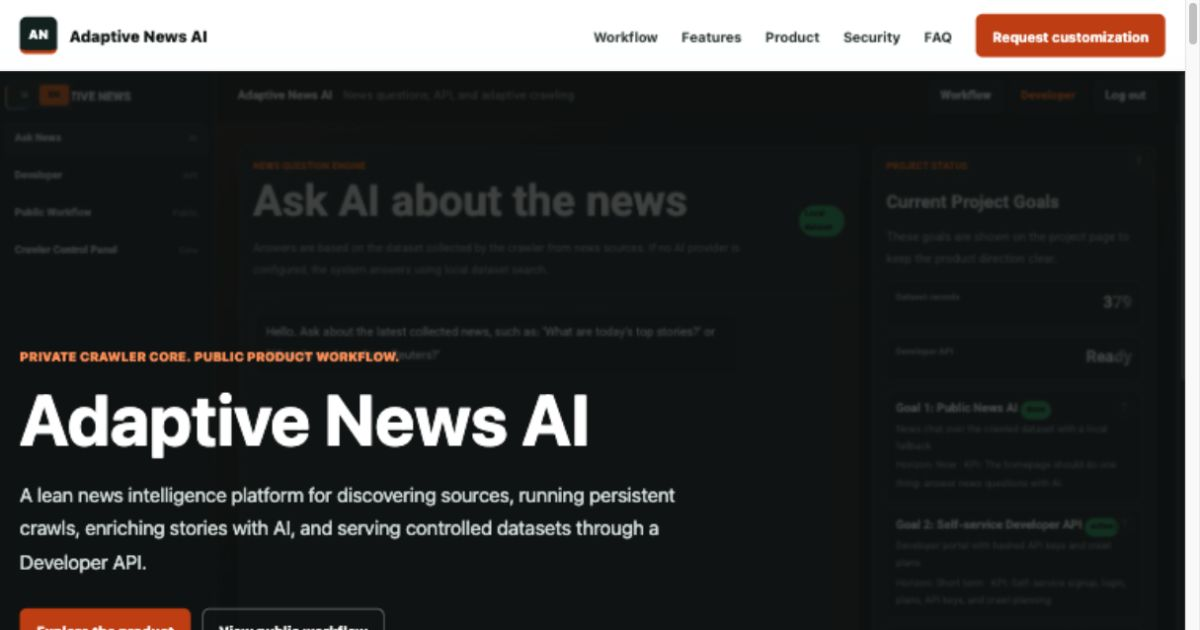
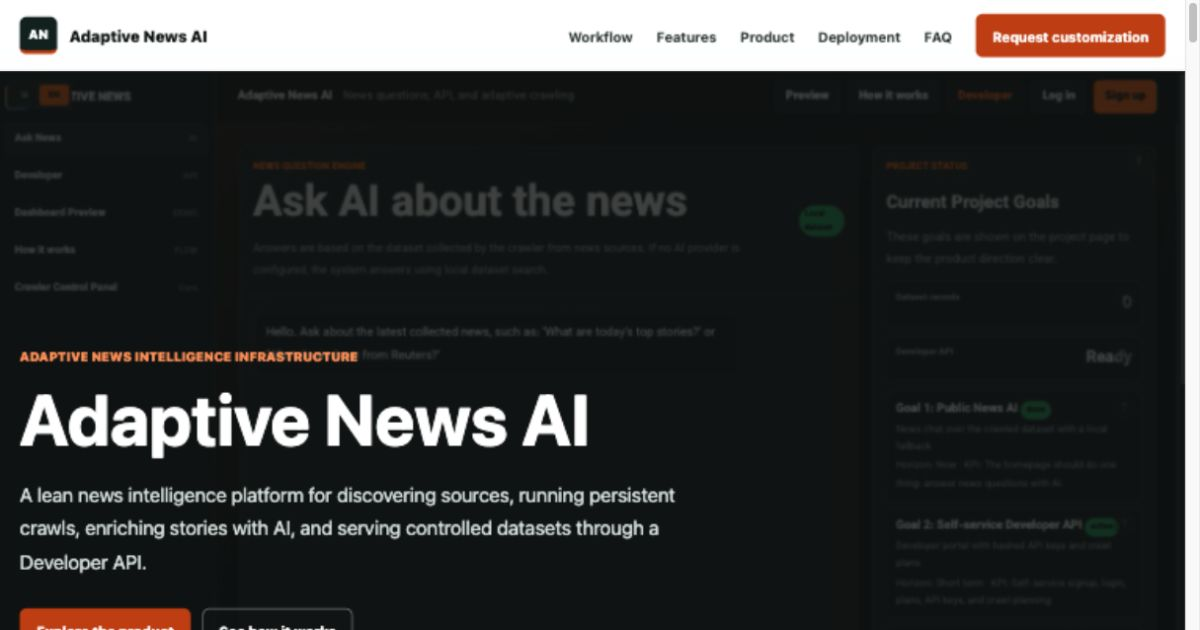
Focus public site on the product

diff --git a/index.html b/index.html
@@ -3,9 +3,9 @@
 <head>
   <meta charset="utf-8">
   <meta name="viewport" content="width=device-width, initial-scale=1, viewport-fit=cover">
-  <title>Adaptive News AI | Private Crawler and News API</title>
-  <meta name="description" content="Private news intelligence infrastructure for adaptive crawling, AI enrichment, managed crawl IPs, persistent scheduling, and a scoped Developer API.">
-  <meta name="keywords" content="Adaptive News AI, adaptive news crawler, news intelligence API, AI news extraction, crawl scheduler, proxy rotation, publisher taxonomy, private news platform">
+  <title>Adaptive News AI | Adaptive Crawler and News API</title>
+  <meta name="description" content="News intelligence infrastructure for adaptive crawling, AI enrichment, managed crawl IPs, persistent scheduling, and a scoped Developer API.">
+  <meta name="keywords" content="Adaptive News AI, adaptive news crawler, news intelligence API, AI news extraction, crawl scheduler, proxy rotation, publisher taxonomy, news platform">
   <meta name="author" content="Adaptive News AI">
   <meta name="robots" content="index, follow, max-image-preview:large, max-snippet:-1, max-video-preview:-1">
   <meta name="theme-color" content="#111817">
@@ -14,8 +14,8 @@
   <link rel="canonical" href="https://digimasoud.github.io/adaptive-news-workflow/">
   <link rel="sitemap" type="application/xml" href="https://digimasoud.github.io/adaptive-news-workflow/sitemap.xml">
   <link rel="preload" as="image" href="assets/homepage.png" fetchpriority="high">
-  <meta property="og:title" content="Adaptive News AI - Private News Intelligence Infrastructure">
-  <meta property="og:description" content="Discover, crawl, enrich, schedule, and serve news data through one lean private core and a scoped Developer API.">
+  <meta property="og:title" content="Adaptive News AI - News Intelligence Infrastructure">
+  <meta property="og:description" content="Discover, crawl, enrich, schedule, and serve news data through one lean platform and a scoped Developer API.">
   <meta property="og:type" content="website">
   <meta property="og:site_name" content="Adaptive News AI">
   <meta property="og:locale" content="en_US">
@@ -25,12 +25,12 @@
   <meta property="og:image:type" content="image/png">
   <meta property="og:image:width" content="1200">
   <meta property="og:image:height" content="630">
-  <meta property="og:image:alt" content="Adaptive News AI private crawler and Developer API product page">
+  <meta property="og:image:alt" content="Adaptive News AI crawler and Developer API product page">
   <meta name="twitter:card" content="summary_large_image">
-  <meta name="twitter:title" content="Adaptive News AI - Private News Intelligence Infrastructure">
+  <meta name="twitter:title" content="Adaptive News AI - News Intelligence Infrastructure">
   <meta name="twitter:description" content="Adaptive crawling, managed IPs, AI-enriched news data, persistent schedules, and a metered Developer API.">
   <meta name="twitter:image" content="https://digimasoud.github.io/adaptive-news-workflow/assets/og-image.png">
-  <meta name="twitter:image:alt" content="Adaptive News AI private crawler and Developer API product page">
+  <meta name="twitter:image:alt" content="Adaptive News AI crawler and Developer API product page">
   <script type="application/ld+json">
     {
       "@context": "https://schema.org",
@@ -40,15 +40,15 @@
           "@id": "https://digimasoud.github.io/adaptive-news-workflow/#website",
           "url": "https://digimasoud.github.io/adaptive-news-workflow/",
           "name": "Adaptive News AI",
-          "description": "Private news intelligence infrastructure for adaptive crawling, AI enrichment, and controlled API delivery.",
+          "description": "News intelligence infrastructure for adaptive crawling, AI enrichment, and controlled API delivery.",
           "inLanguage": "en"
         },
         {
           "@type": "WebPage",
           "@id": "https://digimasoud.github.io/adaptive-news-workflow/#webpage",
           "url": "https://digimasoud.github.io/adaptive-news-workflow/",
-          "name": "Adaptive News AI | Private Crawler and News API",
-          "description": "Private news intelligence infrastructure for adaptive crawling, AI enrichment, managed crawl IPs, persistent scheduling, and a scoped Developer API.",
+          "name": "Adaptive News AI | Adaptive Crawler and News API",
+          "description": "News intelligence infrastructure for adaptive crawling, AI enrichment, managed crawl IPs, persistent scheduling, and a scoped Developer API.",
           "isPartOf": {"@id": "https://digimasoud.github.io/adaptive-news-workflow/#website"},
           "primaryImageOfPage": {"@id": "https://digimasoud.github.io/adaptive-news-workflow/#primaryimage"},
           "mainEntity": {"@id": "https://digimasoud.github.io/adaptive-news-workflow/#software"},
@@ -62,7 +62,7 @@
           "contentUrl": "https://digimasoud.github.io/adaptive-news-workflow/assets/og-image.png",
           "width": 1200,
           "height": 630,
-          "caption": "Adaptive News AI private crawler and Developer API product page"
+          "caption": "Adaptive News AI crawler and Developer API product page"
         },
         {
           "@type": "SoftwareApplication",
@@ -71,7 +71,7 @@
           "alternateName": "Adaptive News Crawler",
           "applicationCategory": "DeveloperApplication",
           "operatingSystem": "Web, Linux, Docker",
-          "description": "Private news intelligence infrastructure for adaptive crawling, AI enrichment, persistent scheduling, and metered API delivery.",
+          "description": "News intelligence infrastructure for adaptive crawling, AI enrichment, persistent scheduling, and metered API delivery.",
           "url": "https://digimasoud.github.io/adaptive-news-workflow/",
           "mainEntityOfPage": {"@id": "https://digimasoud.github.io/adaptive-news-workflow/#webpage"},
           "image": {"@id": "https://digimasoud.github.io/adaptive-news-workflow/#primaryimage"},
@@ -82,12 +82,12 @@
             "Persistent hourly, daily, and weekly scheduling",
             "Managed proxy and crawl IP rotation",
             "Host-scoped authorized premium source sessions",
-            "Customer self-hosting with private versioned updates",
+            "Customer self-hosting with versioned updates",
             "Email and password read-only dashboard preview",
             "Resilient title and publisher taxonomy extraction",
             "AI summaries, entities, and topical tags",
             "Scoped API keys, quotas, and usage metering",
-            "Private JSONL and CSV news datasets",
+            "Local JSONL and CSV news datasets",
             "English and Persian product interfaces",
             "Mobile-first responsive public product experience",
             "Operator reports, logs, feedback, and health monitoring"
@@ -100,7 +100,7 @@
             {
               "@type": "Question",
               "name": "What is Adaptive News AI?",
-              "acceptedAnswer": {"@type": "Answer", "text": "Adaptive News AI is private news intelligence infrastructure that discovers sources, crawls articles, enriches records, schedules recurring jobs, and serves controlled datasets through a Developer API."}
+              "acceptedAnswer": {"@type": "Answer", "text": "Adaptive News AI is news intelligence infrastructure that discovers sources, crawls articles, enriches records, schedules recurring jobs, and serves controlled datasets through a Developer API."}
             },
             {
               "@type": "Question",
@@ -115,11 +115,11 @@
             {
               "@type": "Question",
               "name": "What does the Developer API expose?",
-              "acceptedAnswer": {"@type": "Answer", "text": "Scoped API keys provide public-safe article records, search and source taxonomy filters, usage reporting, and crawl-plan operations. Raw HTML and private operator state are excluded."}
+              "acceptedAnswer": {"@type": "Answer", "text": "Scoped API keys provide controlled article records, search and source taxonomy filters, usage reporting, and crawl-plan operations. Raw HTML and operator state are excluded."}
             },
             {
               "@type": "Question",
-              "name": "Can Adaptive News AI run on one private server?",
+              "name": "Can Adaptive News AI run on one customer server?",
               "acceptedAnswer": {"@type": "Answer", "text": "Yes. The platform is designed for a lean Docker-based single-server deployment with persistent local state and optional integration with a separate ingestion service."}
             },
             {
@@ -127,11 +127,7 @@
               "name": "Can it crawl sources that require an authorized account?",
               "acceptedAnswer": {"@type": "Answer", "text": "Yes. Operators can attach host-scoped Basic, Bearer, custom-header, or existing session-cookie profiles to targets they are authorized to access. The crawler does not bypass paywalls or publisher controls."}
             },
-            {
-              "@type": "Question",
-              "name": "Is the crawler source code public?",
-              "acceptedAnswer": {"@type": "Answer", "text": "No. The implementation, credentials, datasets, and operational configuration remain private. This public site documents the product workflow and integration model."}
-            }
+            {"@type": "Question", "name": "Can I preview the dashboard before deployment?", "acceptedAnswer": {"@type": "Answer", "text": "Yes. Email and password access opens a realistic read-only product dashboard without enabling API keys, crawls, or configuration changes."}}
           ]
         }
       ]
@@ -410,7 +406,7 @@
         <a href="#workflow">Workflow</a>
         <a href="#features">Features</a>
         <a href="#product">Product</a>
-        <a href="#security">Security</a>
+        <a href="#deployment">Deployment</a>
         <a href="#faq">FAQ</a>
         <a class="button primary" href="#contact">Request customization</a>
       </div>
@@ -419,7 +415,7 @@
       <a href="#workflow">Workflow</a>
       <a href="#features">Features</a>
       <a href="#product">Product</a>
-      <a href="#security">Security</a>
+      <a href="#deployment">Deployment</a>
       <a href="#faq">FAQ</a>
       <a href="#contact">Contact</a>
     </nav>
@@ -430,12 +426,12 @@
       <img class="hero-media" src="assets/homepage.png" width="1585" height="892" alt="" fetchpriority="high" decoding="async">
       <div class="shell">
         <div class="hero-content">
-          <p class="eyebrow">Private crawler core. Public product workflow.</p>
+          <p class="eyebrow">Adaptive news intelligence infrastructure</p>
           <h1 id="hero-title">Adaptive News AI</h1>
           <p class="hero-copy">A lean news intelligence platform for discovering sources, running persistent crawls, enriching stories with AI, and serving controlled datasets through a Developer API.</p>
           <div class="hero-actions">
             <a class="button primary" href="#product">Explore the product</a>
-            <a class="button outline" href="https://github.com/digimasoud/adaptive-news-workflow">View public workflow</a>
+            <a class="button outline" href="#workflow">See how it works</a>
           </div>
         </div>
       </div>
@@ -446,7 +442,7 @@
         <div class="proof-item"><strong>Adaptive discovery</strong><span>Robots, sitemap indexes, news paths, and scored URL selection.</span></div>
         <div class="proof-item"><strong>Persistent operations</strong><span>Hourly, daily, and weekly plans with isolated crawl state.</span></div>
         <div class="proof-item"><strong>Controlled delivery</strong><span>Scoped API keys, plan quotas, rate limits, and usage reporting.</span></div>
-        <div class="proof-item"><strong>Private by design</strong><span>Source, credentials, raw HTML, and operator data remain private.</span></div>
+        <div class="proof-item"><strong>Authorized source access</strong><span>Host-scoped sessions for publisher accounts the operator is permitted to use.</span></div>
       </div>
     </section>
 
@@ -463,7 +459,7 @@
           <article class="workflow-step"><span class="step-number">03</span><h3>Fetch</h3><p>Rotate managed crawl IPs and retain HTTP, redirect, and latency history.</p></article>
           <article class="workflow-step"><span class="step-number">04</span><h3>Extract</h3><p>Resolve titles, canonical URLs, language, categories, and source tags.</p></article>
           <article class="workflow-step"><span class="step-number">05</span><h3>Enrich</h3><p>Add AI summaries, entities, and topical tags through routed providers.</p></article>
-          <article class="workflow-step"><span class="step-number">06</span><h3>Deliver</h3><p>Store private records and expose public-safe fields through scoped APIs.</p></article>
+          <article class="workflow-step"><span class="step-number">06</span><h3>Deliver</h3><p>Store records locally and expose controlled fields through scoped APIs.</p></article>
         </div>
       </div>
     </section>
@@ -491,7 +487,7 @@
         <div class="section-head">
           <p class="eyebrow">Complete feature catalog</p>
           <h2>Everything currently available in the platform.</h2>
-          <p>A public, implementation-aligned catalog of crawler, network, extraction, AI, API, scheduling, operator, localization, and deployment capabilities.</p>
+          <p>A complete catalog of crawler, network, extraction, AI, API, scheduling, operator, localization, and deployment capabilities.</p>
         </div>
         <div class="feature-catalog">
           <article class="feature-group">
@@ -525,7 +521,7 @@
               <li>Canonical URL, description, language, text preview, content length, content hash, and timing fields.</li>
               <li>Publisher categories and tags from article metadata, keywords, news keywords, and JSON-LD.</li>
               <li>Historical title and taxonomy backfill for previously collected records.</li>
-              <li>Private append-only JSONL, on-demand CSV export, raw HTML retention, and optional ingestion submission.</li>
+              <li>Local append-only JSONL, on-demand CSV export, raw HTML retention, and optional ingestion submission.</li>
             </ul>
           </article>
           <article class="feature-group">
@@ -582,8 +578,8 @@
               <li>Original article titles, source data, and user input remain untranslated and dataset-safe.</li>
               <li>Mobile-first layouts with safe-area support, 44px touch navigation, stable responsive images, and reduced-motion support.</li>
               <li>Self-hosted Persian font, Docker, Docker Compose, CLI, persistent volumes, liveness checks, and lean single-server operation.</li>
-              <li>Customer-owned deployment from a private versioned container or guarded fast-forward Git updates.</li>
-              <li>Private source boundary with public SEO workflow, screenshots, canonical metadata, structured data, sitemap, and IndexNow.</li>
+              <li>Customer-owned deployment from a versioned container or guarded fast-forward Git updates.</li>
+              <li>SEO-ready product page with screenshots, canonical metadata, structured data, sitemap, and IndexNow.</li>
             </ul>
           </article>
         </div>
@@ -614,16 +610,16 @@
       </div>
     </section>
 
-    <section class="section dark" id="security">
+    <section class="section dark" id="deployment">
       <div class="shell security-band">
         <div>
-          <p class="eyebrow">Private core, public confidence</p>
-          <h2>Publish the workflow, not the operational secrets.</h2>
-          <p>This public site explains the product and integration model. The implementation repository, raw datasets, proxy credentials, provider tokens, local databases, and operator configuration remain private.</p>
+          <p class="eyebrow">Flexible deployment</p>
+          <h2>Run Adaptive News on your own infrastructure.</h2>
+          <p>Deploy the complete platform on one Linux server, a customer cloud, or customer-managed infrastructure with persistent Docker volumes and versioned updates.</p>
         </div>
-        <div class="boundary" aria-label="Public and private data boundary">
-          <div><strong>Safe to publish</strong><span>Architecture, feature documentation, product screenshots, public API concepts, and integration workflow.</span></div>
-          <div><strong>Kept private</strong><span>Source code, credentials, raw HTML, private datasets, SQLite state, provider configuration, and proxy URLs.</span></div>
+        <div class="boundary" aria-label="Deployment options">
+          <div><strong>Self-hosted Docker</strong><span>Versioned container images, health checks, persistent state, and controlled updates.</span></div>
+          <div><strong>Custom integration</strong><span>Source onboarding, ingestion endpoints, AI routing, API schemas, reporting, and branding.</span></div>
         </div>
       </div>
     </section>
@@ -633,17 +629,16 @@
         <div class="section-head">
           <p class="eyebrow">Frequently asked questions</p>
           <h2>Technical and commercial questions, answered clearly.</h2>
-          <p>Concise answers for teams evaluating the crawler, Developer API, deployment model, and private data boundary.</p>
+          <p>Concise answers for teams evaluating the crawler, Developer API, deployment model, and product experience.</p>
         </div>
         <div class="faq-list">
-          <details><summary>What is Adaptive News AI?</summary><p>Adaptive News AI is private news intelligence infrastructure that discovers sources, crawls articles, enriches records, schedules recurring jobs, and serves controlled datasets through a Developer API.</p></details>
+          <details><summary>What is Adaptive News AI?</summary><p>Adaptive News AI is news intelligence infrastructure that discovers sources, crawls articles, enriches records, schedules recurring jobs, and serves controlled datasets through a Developer API.</p></details>
           <details><summary>Can the crawler work without an AI provider?</summary><p>Yes. Deterministic sitemap discovery and URL scoring continue without AI. Optional providers improve URL classification, extraction, summarization, entity detection, and tagging.</p></details>
           <details><summary>How does crawl IP management work?</summary><p>The operator can configure multiple HTTP or HTTPS proxies, retain direct server fallback, rotate requests, quarantine unhealthy endpoints, detect blacklist conditions, and review capacity recommendations.</p></details>
-          <details><summary>What does the Developer API expose?</summary><p>Scoped API keys provide public-safe article records, search and source taxonomy filters, usage reporting, and crawl-plan operations. Raw HTML and private operator state are excluded.</p></details>
-          <details><summary>Can Adaptive News AI run on one private server?</summary><p>Yes. The platform is designed for a lean Docker-based single-server deployment with persistent local state and optional integration with a separate ingestion service.</p></details>
+          <details><summary>What does the Developer API expose?</summary><p>Scoped API keys provide controlled article records, search and source taxonomy filters, usage reporting, and crawl-plan operations. Raw HTML and operator state are excluded.</p></details>
+          <details><summary>Can Adaptive News AI run on one customer server?</summary><p>Yes. The platform is designed for a lean Docker-based single-server deployment with persistent local state and optional integration with a separate ingestion service.</p></details>
           <details><summary>Can I preview the dashboard before deployment?</summary><p>Yes. A dedicated email/password preview shows realistic sources, crawl plans, AI health, usage, and dataset records. Preview accounts are read-only and cannot create keys, run crawls, or change production settings.</p></details>
           <details><summary>Can it crawl sources that require an authorized account?</summary><p>Yes. Operators can attach host-scoped Basic, Bearer, custom-header, or existing session-cookie profiles to targets they are authorized to access. The crawler does not bypass paywalls or publisher controls.</p></details>
-          <details><summary>Is the crawler source code public?</summary><p>No. The implementation, credentials, datasets, and operational configuration remain private. This public site documents the product workflow and integration model.</p></details>
         </div>
       </div>
     </section>
@@ -653,9 +648,9 @@
         <div>
           <p class="eyebrow">Commercial and custom builds</p>
           <h2>Need a tailored news intelligence platform?</h2>
-          <p>Request custom source onboarding, private deployment, ingestion integration, AI-provider routing, API schema changes, reporting, or a branded customer experience.</p>
+          <p>Request custom source onboarding, self-hosted deployment, ingestion integration, AI-provider routing, API schema changes, reporting, or a branded customer experience.</p>
           <a class="button dark" href="https://github.com/digimasoud/adaptive-news-workflow/issues/new?template=customization-request.yml">Request customization</a>
-          <p class="contact-note">GitHub issues are public. Do not include credentials, private datasets, or confidential business details.</p>
+          <p class="contact-note">Do not include credentials, datasets, or confidential business details in a GitHub issue.</p>
         </div>
         <aside class="contact-aside">
           <strong>Professional contact route</strong>
@@ -667,8 +662,8 @@
 
   <footer>
     <div class="shell footer-row">
-      <span>Adaptive News AI. Private news intelligence infrastructure.</span>
-      <div><a href="https://github.com/digimasoud/adaptive-news-workflow">Public workflow</a> &nbsp; / &nbsp; <a href="https://github.com/digimasoud">Project owner</a></div>
+      <span>Adaptive News AI. Adaptive news intelligence infrastructure.</span>
+      <div><a href="#product">Product</a> &nbsp; / &nbsp; <a href="https://github.com/digimasoud">Project owner</a></div>
     </div>
   </footer>
 </body>

diff --git a/404.html b/404.html
@@ -20,8 +20,8 @@
 <body>
   <main>
     <small>Error 404</small>
-    <h1>This page is not part of the public workflow.</h1>
-    <p>Return to Adaptive News AI to explore the private crawler, AI enrichment pipeline, Developer API, product screenshots, and customization options.</p>
+    <h1>This page could not be found.</h1>
+    <p>Return to Adaptive News AI to explore adaptive crawling, the AI enrichment pipeline, Developer API, product screenshots, and customization options.</p>
     <a href="https://digimasoud.github.io/adaptive-news-workflow/">Return to Adaptive News AI</a>
   </main>
 </body>

diff --git a/README.md b/README.md
@@ -1,22 +1,12 @@
-# Adaptive News AI Public Workflow
+# Adaptive News AI Product Overview
 
-Public, SEO-friendly workflow documentation for **Adaptive News AI**.
-
-This repository does **not** publish the private crawler codebase. It explains the product workflow, goals, architecture, screenshots, and developer integration model so the project can be shared publicly without exposing source code, secrets, local databases, or raw crawl data.
+Product, architecture, feature, and integration documentation for **Adaptive News AI**.
 
 Public page:
 
 ```text
 https://digimasoud.github.io/adaptive-news-workflow/
 ```
-
-Private implementation repo:
-
-```text
-https://github.com/digimasoud/adaptive-news-crawler
-```
-
-The implementation repository is private. This public repository is the shareable product/workflow layer.
 
 ## Product Summary
 
@@ -27,7 +17,7 @@ Adaptive News AI is a lean news platform core with four connected surfaces:
 | AI News Homepage | Public users ask AI questions about the crawled news dataset. |
 | Developer Portal | Developers sign up, choose a plan, create API keys, and define crawl plans. |
 | Technical Panel | Operators manage targets, AI providers, HTTP status, reports, logs, and dataset access. |
-| Public Workflow | Search engines and collaborators see an SEO-safe explanation while source remains private. |
+| Product Preview | Prospective users create a read-only account and inspect a realistic operations dashboard. |
 
 ## What It Does
 
@@ -48,15 +38,6 @@ Adaptive News AI is a lean news platform core with four connected surfaces:
 - Show public screenshots for the homepage, developer portal, and technical crawler panel.
 - Publish SEO metadata, Open Graph tags, `robots.txt`, `sitemap.xml`, and JSON-LD structured data.
 
-## What Stays Private
-
-- Source code.
-- `.env` files and API keys.
-- Crawler keys and ingestion credentials.
-- Local SQLite databases.
-- Raw HTML datasets when licensing/source terms are unclear.
-- Internal implementation details that are not needed for public product discovery.
-
 ## Screenshots
 
 - `assets/homepage.png`: AI news question homepage.
@@ -69,7 +50,7 @@ Adaptive News AI is a lean news platform core with four connected surfaces:
 Target sites -> robots/sitemaps -> crawl IP pool -> adaptive crawler -> metadata/AI enrichment -> local dataset -> AI answers and Developer API
 ```
 
-Customer deployments can run on their own infrastructure from a private versioned container.
+Customer deployments can run on their own infrastructure from a versioned container.
 Authorized source accounts can be attached per target with host-scoped sessions; the product
 does not bypass paywalls or publisher access controls.
 
@@ -83,7 +64,7 @@ Detailed flow:
 2. Score URLs with deterministic heuristics and optional AI classification.
 3. Fetch pages through the proxy/direct-IP pool while recording status, retries, and block health.
 4. Extract titles, categories, tags, canonical URLs, and optional AI enrichment.
-5. Store private records locally and expose only public-safe fields through the API.
+5. Store records locally and expose controlled fields through the API.
 6. Answer news questions from the crawled dataset.
 7. Let developers create scoped API keys and persistent crawl plans.
 8. Enforce per-minute and monthly plan usage limits.
@@ -96,13 +77,9 @@ Detailed flow:
 - `active`: Scheduled hourly/daily/weekly crawl plans.
 - `active`: 100+ Persian and international news sources.
 - `active`: AI extraction, entities, tags, and multilingual summaries.
-- `done`: Public workflow with private source code.
+- `done`: Read-only email/password product preview.
 - `active`: Usage metering, rate limits, and billing readiness.
 - `active`: Crawl IP rotation, health, blacklist, and capacity management.
-
-## Private Boundary
-
-This public repo intentionally excludes source code, credentials, private config, local SQLite databases, and raw crawl data.
 
 ## Commercial Requests
 
@@ -115,7 +92,7 @@ A dedicated domain mailbox is the recommended long-term channel for private comm
 - `index.html`: public project page.
 - `robots.txt`: crawler access rules.
 - `sitemap.xml`: sitemap for GitHub Pages.
-- `llms.txt`: concise product and data-boundary context for AI agents.
+- `llms.txt`: concise product and integration context for AI agents.
 - `404.html`: index-safe custom not-found page.
 - `4dcf971ac699cadc2f08a36719d2c2af.txt`: IndexNow ownership key for this GitHub Pages path.
 - `favicon.svg`: Adaptive News AI browser icon.